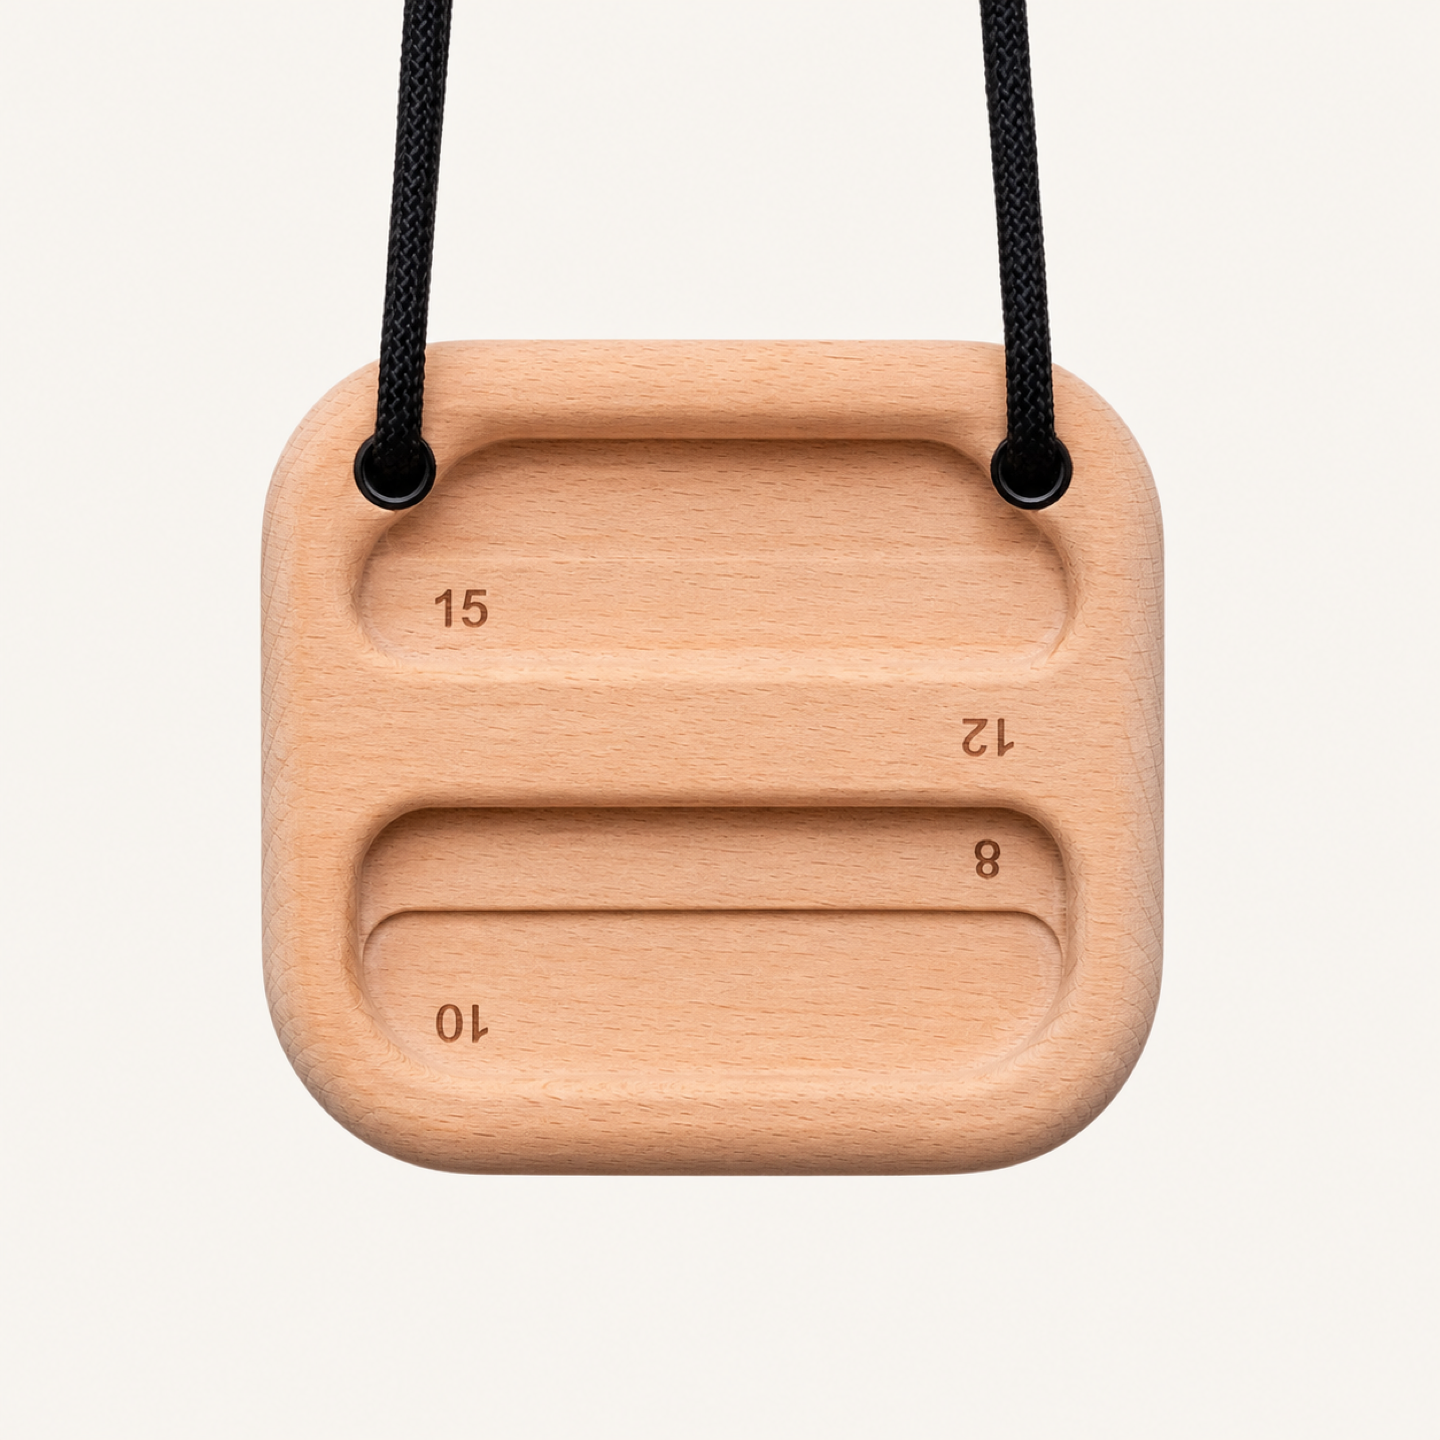
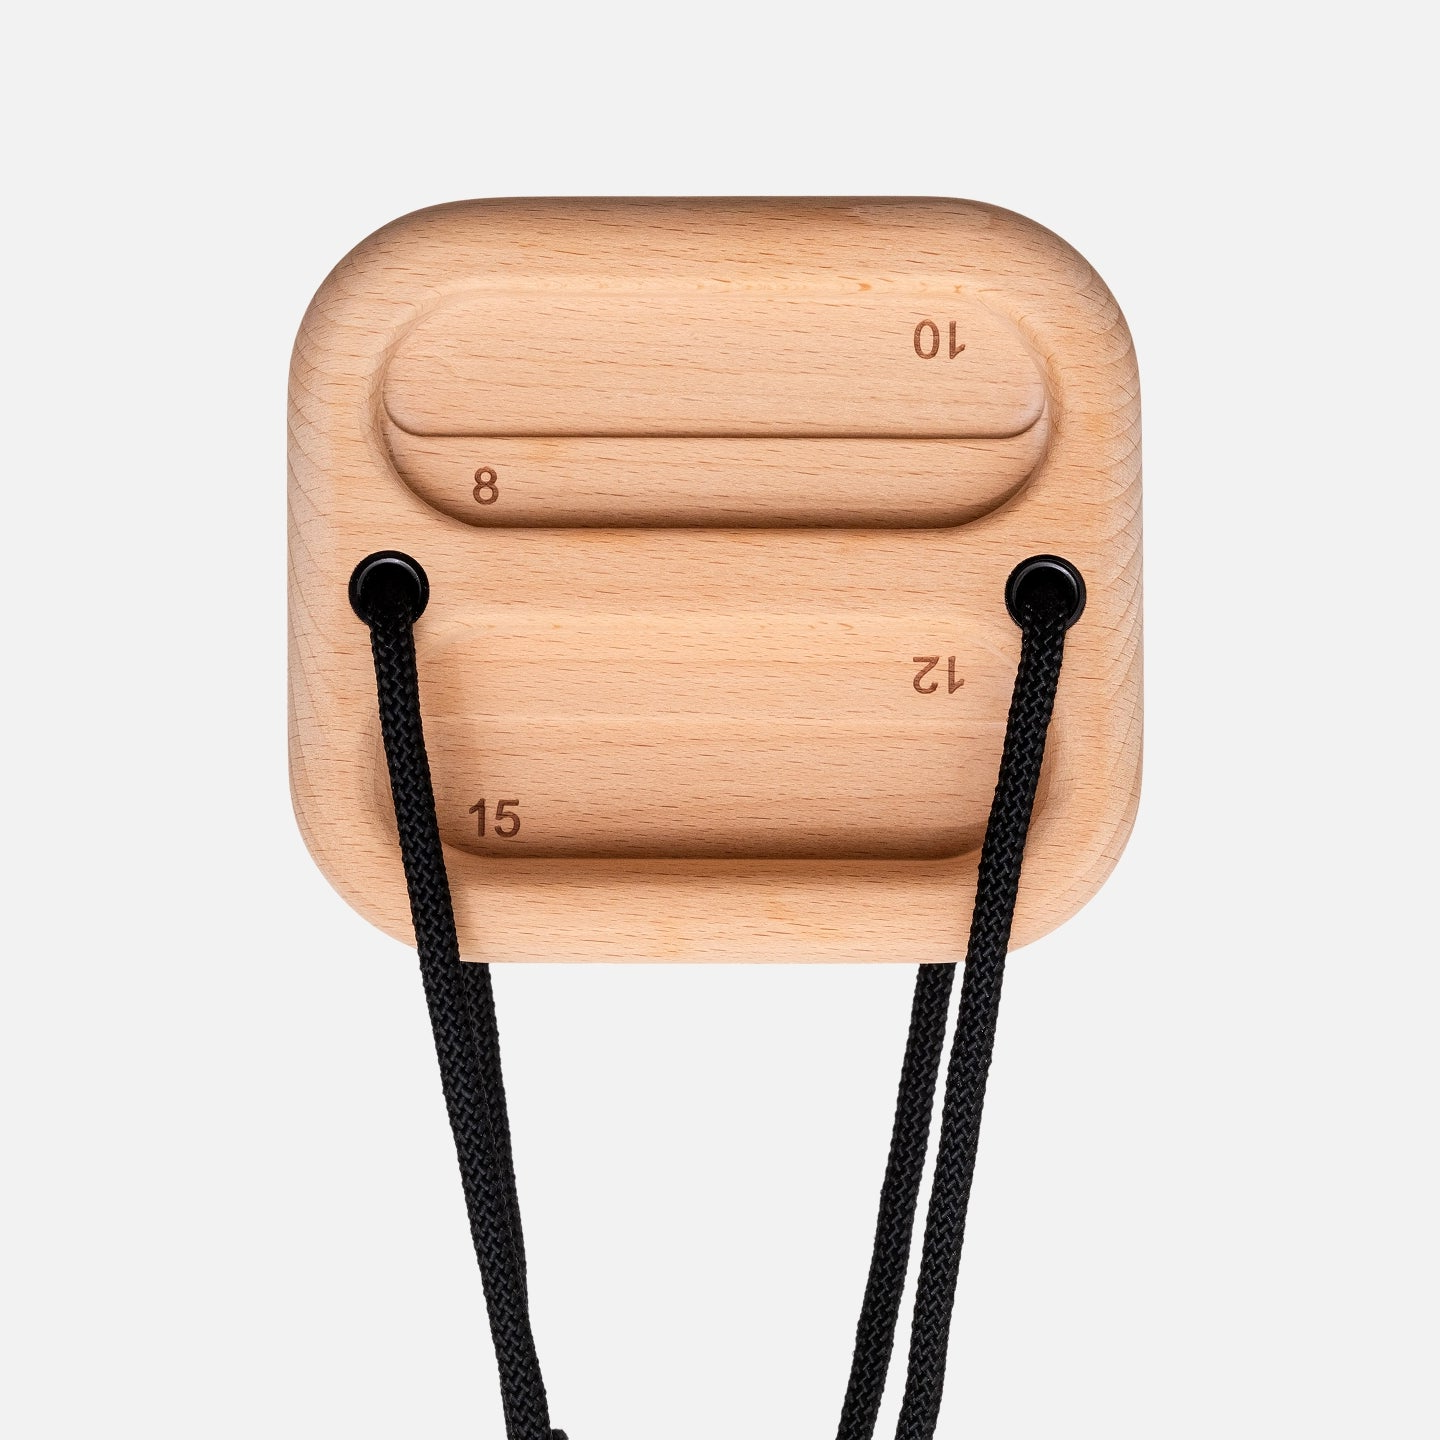
Correct Port-A-Board positions and evidence

diff --git a/docs/source-audits/2026-08-30-hangboard-presentation-remediation.md b/docs/source-audits/2026-08-30-hangboard-presentation-remediation.md
@@ -899,52 +899,79 @@ the focused Workbench package suite passed 173 tests. The repair therefore
 passes the all-presentations/all-positions requirement atomically. The
 schema-2 machine manifest is intentionally unchanged in this bounded pass.
 
-## Frictitious Port-A-Board five-position repair (2026-08-31)
+## Frictitious Port-A-Board corrective five-position audit (2026-08-31)
 
-The current Port-A-Board was freshly checked against the [manufacturer product
-page](https://frictitiousclimbing.com/products/the-port-a-board-portable-and-mountable-portable-hangboard),
-its published [front](https://frictitiousclimbing.com/cdn/shop/files/PAB-Front.jpg?v=1780418977&width=1280),
-[back](https://frictitiousclimbing.com/cdn/shop/files/PAB-Back.jpg?v=1780418977&width=1280),
-and [side](https://frictitiousclimbing.com/cdn/shop/files/PAB-Side.jpg?v=1780418977&width=1280)
-photographs, and owner photographs in the [Frictitious Loox review
-feed](https://loox.io/s/E1bdwTzdzp): [2026](https://images.loox.io/uploads/2026/7/28/PsCeBZeaj.jpg),
-[2025](https://images.loox.io/uploads/2025/12/27/ZQ09gpZd9.jpg), and a
-[nearby-revision example](https://images.loox.io/uploads/2025/7/10/z4jJr2jVP.jpg).
-The official copy identifies poplar wood, eight edges (30 open, 30, 25, 20,
-15, 12, 10, and 8 mm), pinch grips, and black cord. The existing head-on
-front, back, and side images match the current official views and remain
-byte-for-byte unchanged, including authentic branding and published framing.
-
-The older [manufacturer instruction manual mirror](https://manuals.plus/m/5cffc637e35befbac3738553e529f0eb508e575af7073cf198b9592e35a4a5c0)
-was used only for its physical orientation principle: suspend the board with
-the selected depth number upright and cord above it. Its seven-edge revision
-was not used as current geometry evidence. The complete set is Front Upright,
-Front Inverted (20 mm), Back Upright, Back Inverted (15 mm), and Pinch Side.
-Inverting the continuous side pinch exposes no distinct contact, and the
-manual's other cord options change routing or pitch rather than expose another
-surface, so no sixth routing-only presentation was added.
-
-Two source-constrained image generations supplied the missing inverted views.
-Each required the exact published body topology, pale poplar, authentic
-markings rotated with the board, black cord and grommets, orthographic head-on
-framing, and the selected 20 mm or 15 mm marking upright; extra recesses,
-hardware, hands, walls, and invented labels were prohibited. The accepted
-1254-square candidates were proportionally normalized to 1440-square without
-crop or stretch. Final SHA-256 hashes are
[1 lines of base64/hex data omitted]
-(`front-inverted.png`) and
[1 lines of base64/hex data omitted]
-(`back-inverted.png`). The unchanged official front, back, and side hashes are
+This entry supersedes the generated-image and completeness claims in the
+earlier Port-A-Board repair. Fresh review of Frictitious's current US
+[product page](https://frictitiousclimbing.com/products/the-port-a-board-portable-and-mountable-portable-hangboard)
+and current [Canadian storefront](https://frictitiousclimbing.com/en-ca/products/the-port-a-board-portable-and-mountable-portable-hangboard)
+identifies the photographed eight-edge product as **beech**, not poplar. Its
+published [front](https://frictitiousclimbing.com/cdn/shop/files/PAB-Front.jpg?v=1780418977&width=3840),
+[back](https://frictitiousclimbing.com/cdn/shop/files/PAB-Back.jpg?v=1780418977&width=3840),
+and [side](https://frictitiousclimbing.com/cdn/shop/files/PAB-Side.jpg?v=1780418977&width=3840)
+photos match the three byte-preserved canonical package assets: the same eight
+30/open, 30, 25, 20, 15, 12, 10, and 8 mm contacts, branding, black cord,
+grommets, grain, and framing. The current canonical hashes remain
[3 lines of base64/hex data omitted]
 
-The existing 20 mm and 15 mm pill paths were deliberately reassigned to the
-new positions at `(0.308, 0.633, 0.378, 0.067)` and
-`(0.308, 0.322, 0.376, 0.101)`. Workbench review confirmed both core overlays
-occupy the correct recesses on the individually head-on inverted assets; the
-other three assets and geometry are unchanged. Final package validation and
-focused test results are recorded with the implementing commit.
+The material evidence is revision-sensitive. The archived first-party image
+`PAB-1_2aea9215-8656-4c3a-b51a-e37fdc246a09.jpg`, the independent
+[Hooper's Beta comparison](https://www.hoopersbeta.com/edge-chart), and the
+[portable-board review](https://thehangboard.com/blogs/news/portable-hangboards)
+describe Port-A-Boards as poplar. Frictitious's older [manufacturer manual
+mirror](https://manuals.plus/m/5cffc637e35befbac3738553e529f0eb508e575af7073cf198b9592e35a4a5c0)
+also documents a different seven-edge product (6, 8, 10, 12, 15, 20, and 25
+mm, plus a bonus 35 mm contact). Those sources establish an older/other
+revision and a historical material conflict; they do not override the live
+manufacturer's beech specification for the exact current official photos in
+this package. The independent [Frictitious owner-review
+feed](https://loox.io/s/E1bdwTzdzp) contains both seven-contact owner reports
+and current product photos, further supporting the need not to merge revision
+claims.
+
+The two generated inverted images were removed. `front-inverted.png` is now a
+decoded-pixel-exact 180-degree rotation of `primary.png`, and
+`back-inverted.png` is the same exact rotation of `back.png`; an RGBA pixel
+comparison checked every output coordinate against the opposite source
+coordinate. Their hashes are
[2 lines of base64/hex data omitted]
+both 1440 x 1440. There was no generation, interpolation, resize, crop,
+padding, warp, smoothing, masking, segmentation, registration, redraw, or new
+product pixel. All five retained assets therefore share the manufacturer's
+published photographic material, smoothing, grain, lighting, and head-on
+framing.
+
+`front-inverted` and `back-inverted` are now schema aliases of `primary` and
+`back` with `isInverted: true`. The physical `edge-20` and `edge-15` records
+remain canonically owned by their source faces at their previously reviewed
+frames `(0.314, 0.401, 0.378, 0.067)` and
+`(0.316, 0.401, 0.376, 0.101)`; Workbench performs the exact 180-degree path
+transform for the alias views. No hold ID, kind, depth, path command,
+constraint, or other physical fact changed. `board.json` changed from
[2 lines of base64/hex data omitted]
+
+The five verified head-on views are Front Upright, Front Inverted, Back
+Upright, Back Inverted, and Pinch Side. They do **not** constitute the complete
+manufacturer-published cord-position set. The old manual separately enumerates
+mounted mode and four portable routes: option 1 is a longer flat-edge setup,
+option 2 is for pinch training, option 3 is a shorter flat-edge/no-cheat setup,
+and option 4 creates an in-cut 20 mm edge. Options 1 and 3 do not require
+duplicate face presentations when their working surface and pitch are the same;
+option 2 is represented by Pinch Side. Option 4 changes the 20 mm contact pitch
+and is intentionally **BLOCKED and unmodeled** here: neither the current
+official gallery nor the old revision's lifestyle manual photo provides a
+head-on current-revision image that can depict that cord routing and pitch
+without invention. A flat rotated alias must not be mislabeled as the in-cut
+configuration.
+
+Final-inventory validation and package status passed with 61 packages and no
+drafts. The five retained presentations load under the package contract; this
+corrective pass makes no false claim that the separate option-4 position has
+already been visually validated or completed.
 
 ## Lattice MXEdge Lift Large and Small three-position repair (2026-08-31)
 
